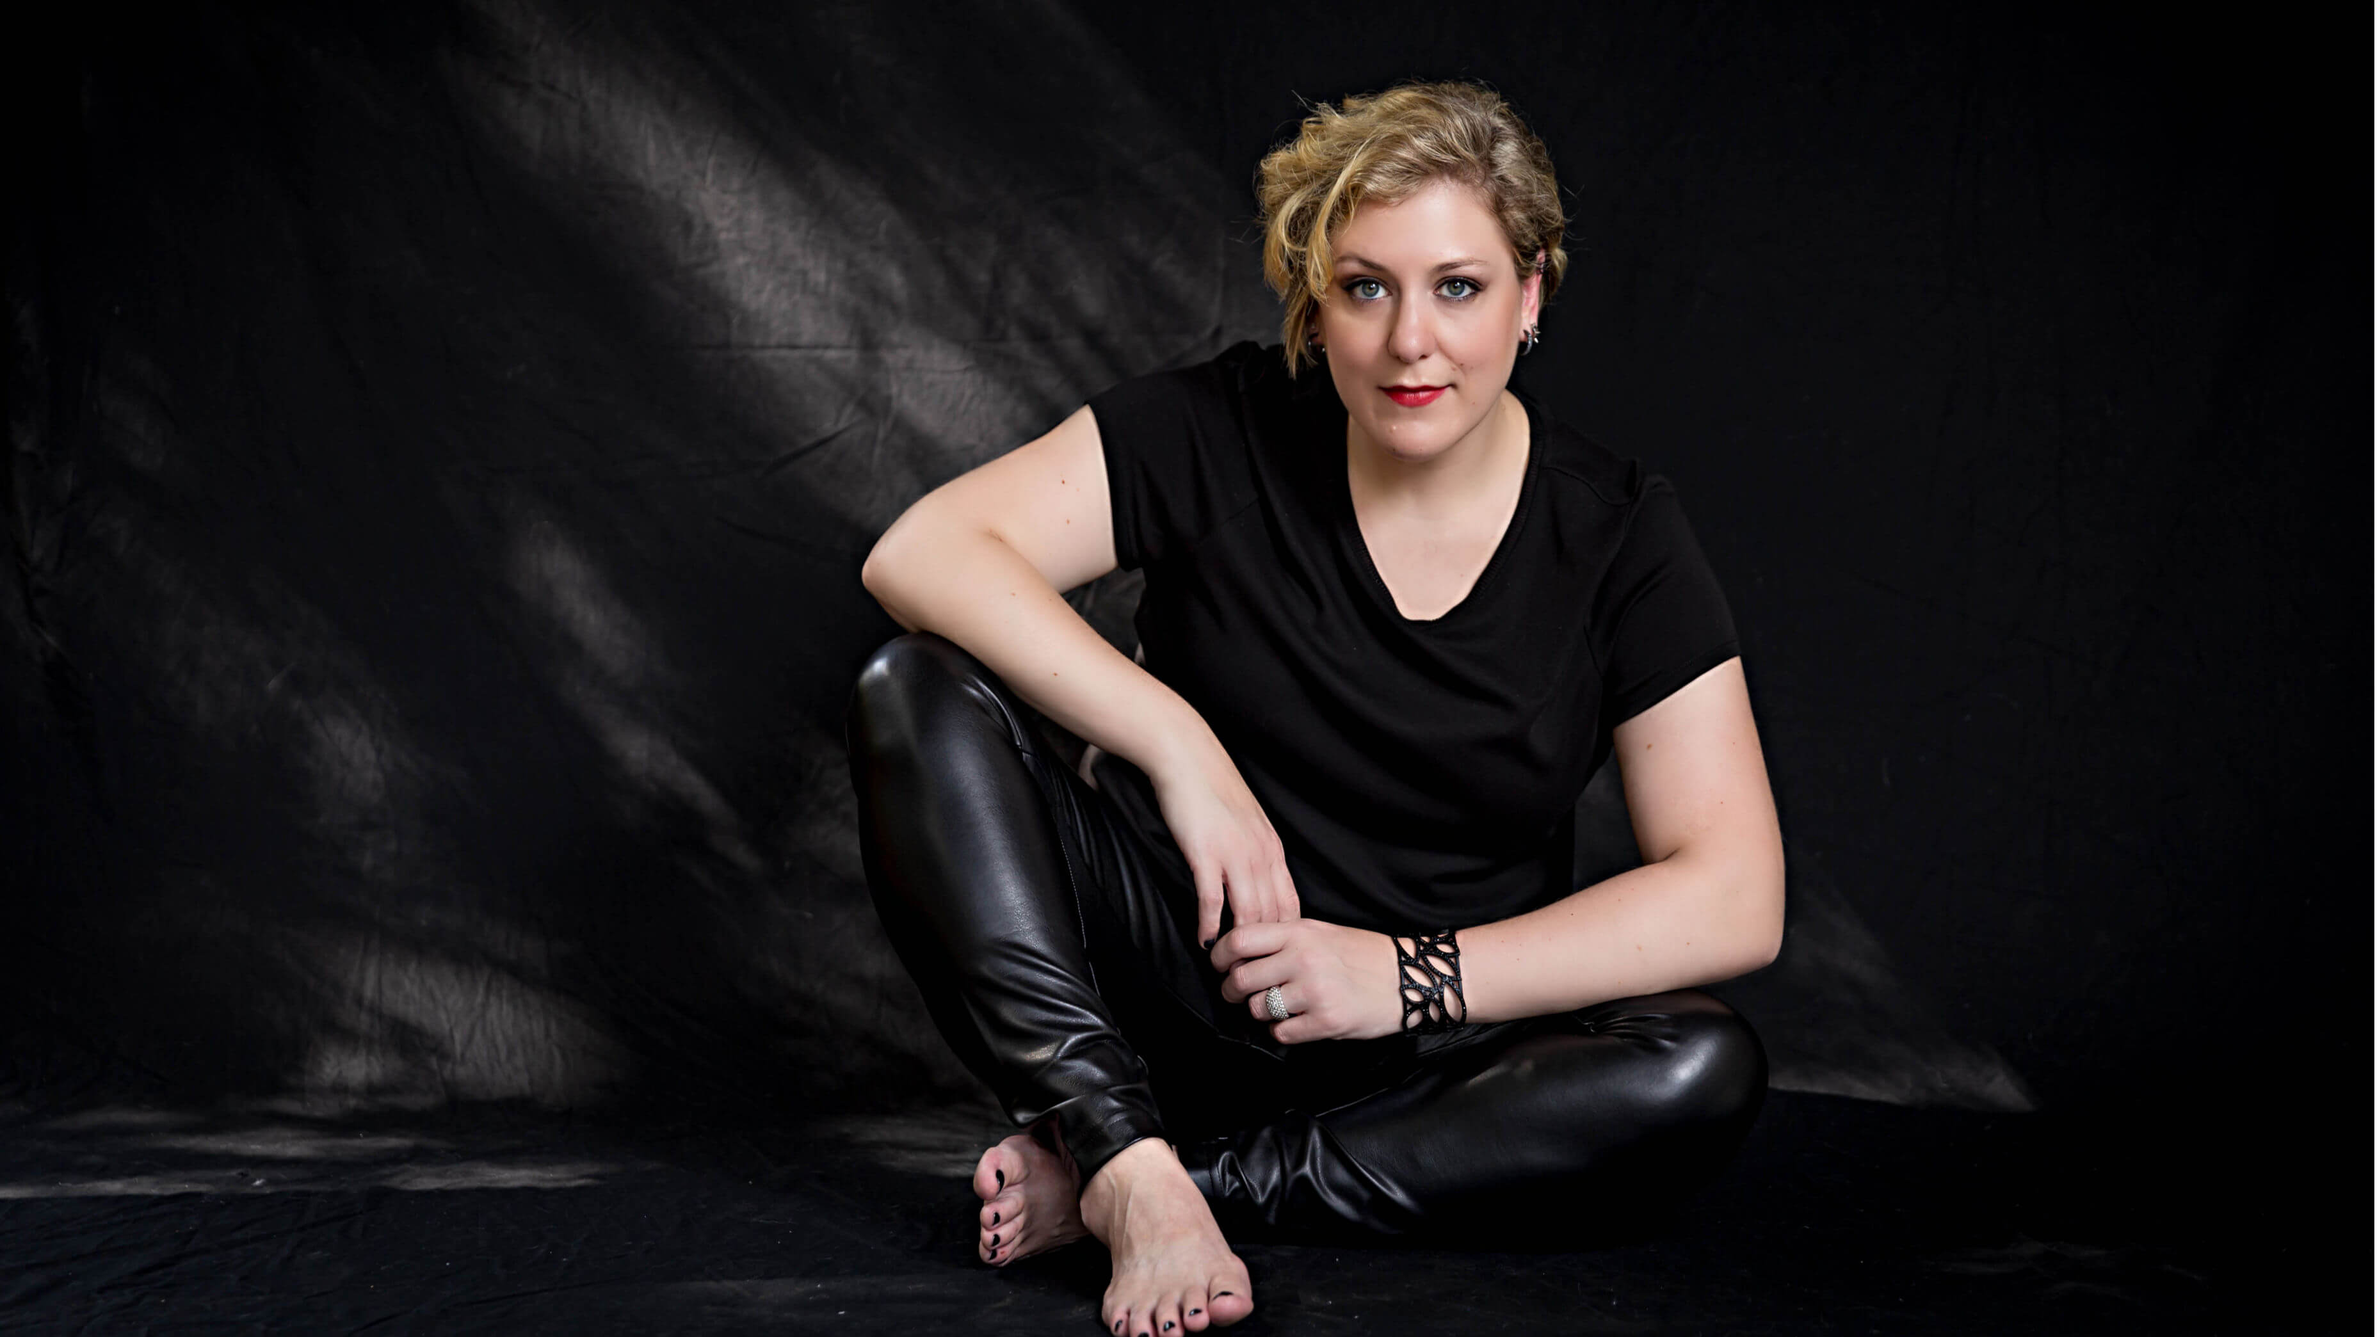
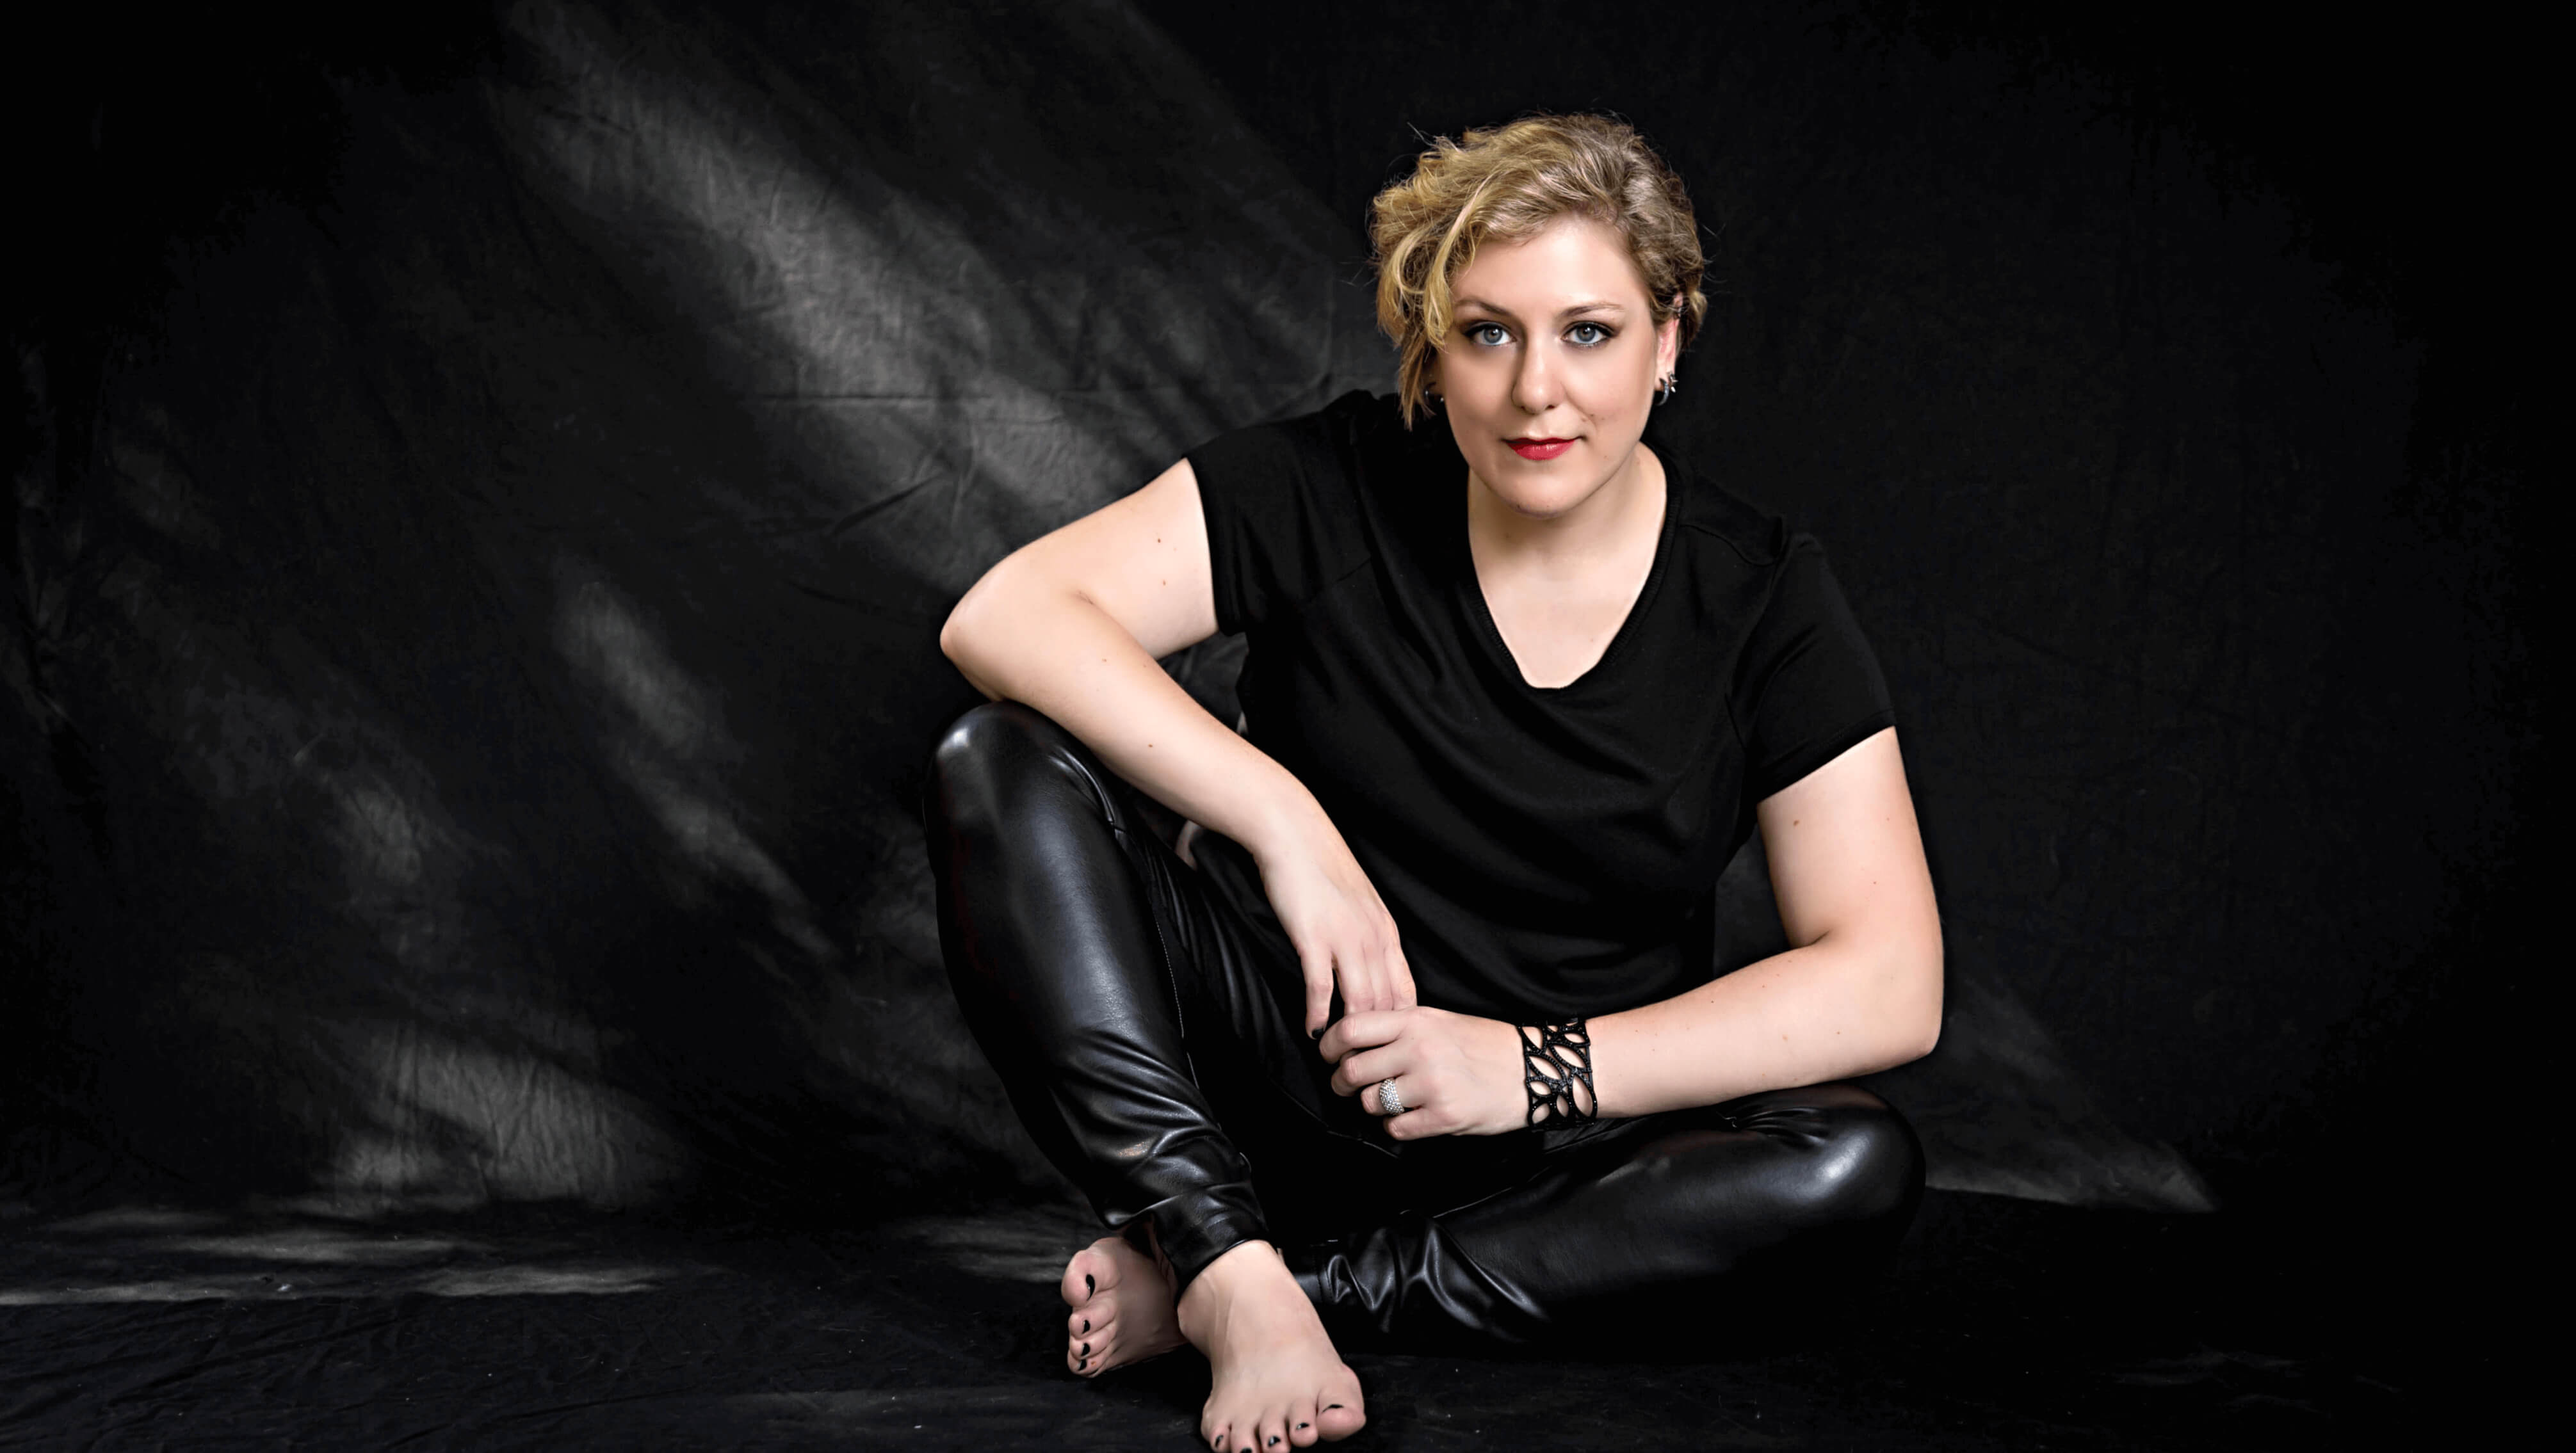
fixed home background

diff --git a/src/App.css b/src/App.css
@@ -57,6 +57,10 @@ ul.row {
   padding-left: 3%;
 }
 
+.blackBackground {
+  background-color: black !important;
+}
+
 .buttonStyle {
   color: white;
   background: #9f0712;
@@ -340,10 +344,11 @@ ul.row {
 }
 
 .landingBg {
-  background-image: url(./images/landing.jpg);
+  background-image: url(/static/media/landing.284075ec.jpg);
   background-size: cover;
-  position: relative;
   min-height: 56vw;
+  max-width: 100vw;
+  background-attachment: fixed;
 }
 
 .landingCenterText {

diff --git a/src/pages/Home.jsx b/src/pages/Home.jsx
@@ -6,7 +6,7 @@ import "../App.css";
 const Home = ({ sidebarIsOpen, setSidebarIsOpen }) => {
   return (
     <div>
-      <section>
+      <section className="blackBackground">
         <div className="landingBg">
           <Header />
           <div class="landing landingCenterText" data-aos="fade-right">
